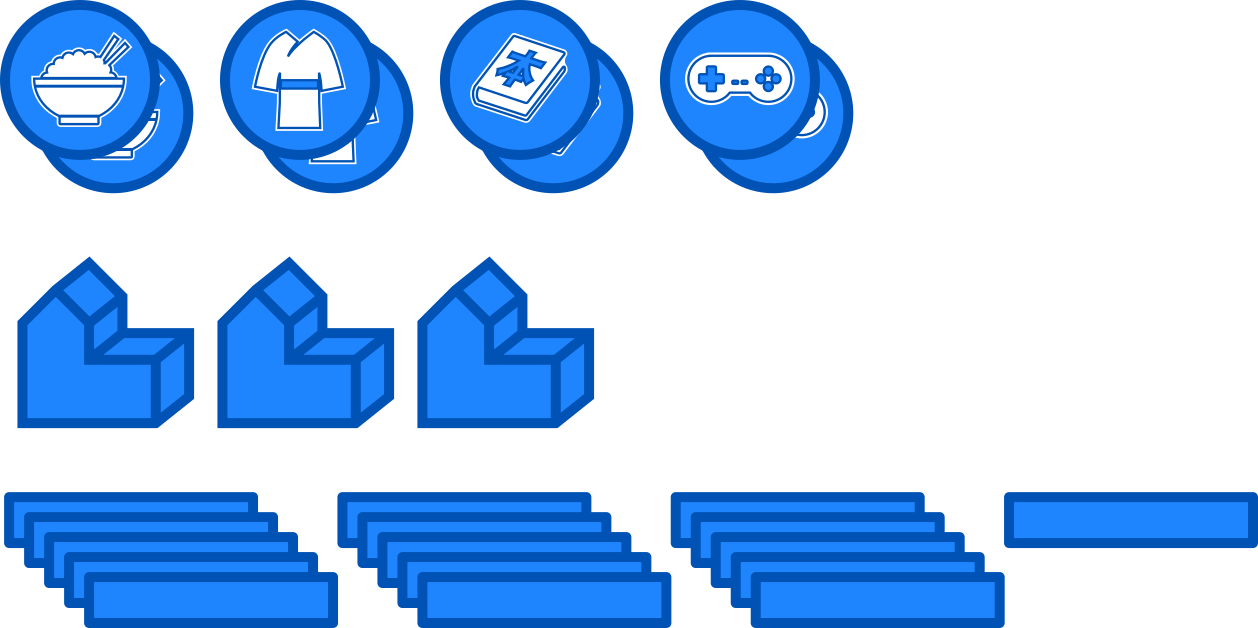
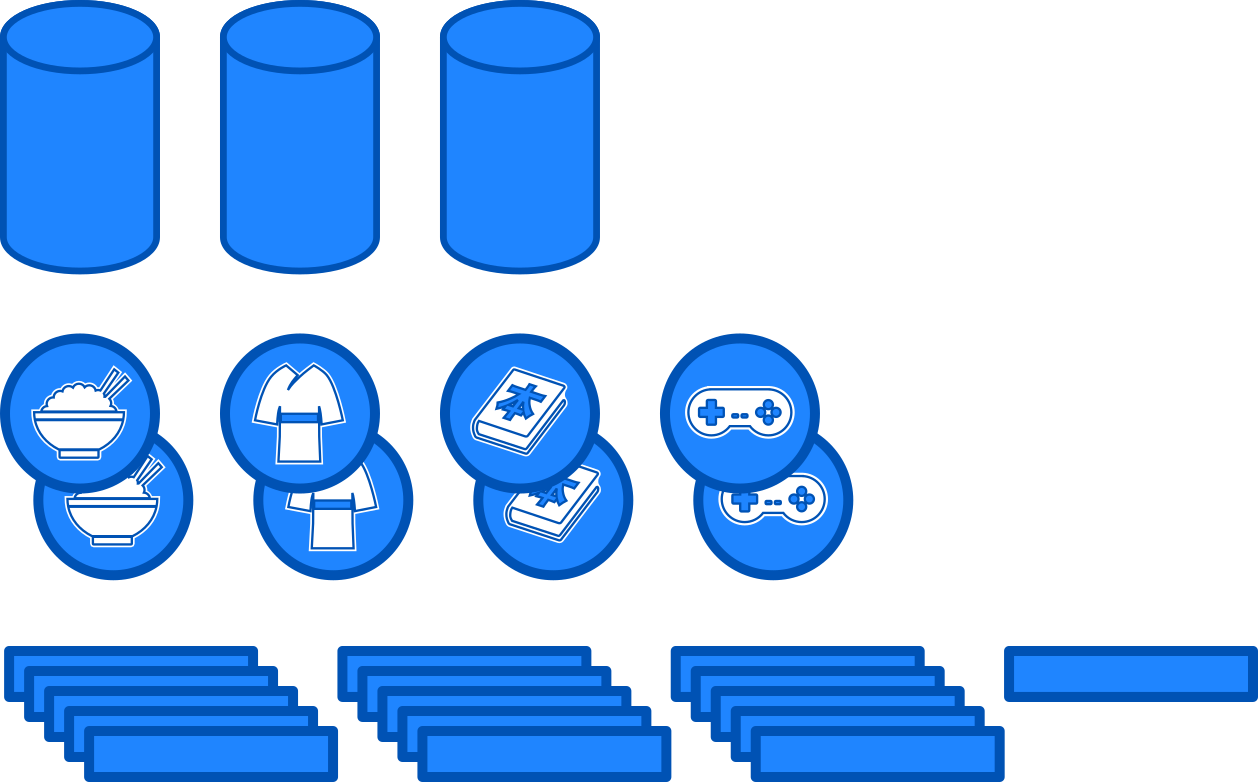
Update readme image to use cylinders for dept stores

diff --git a/README.md b/README.md
@@ -66,7 +66,7 @@ The map is divided into the 23 regions (known as "wards", or "区" (_ku_) in Jap
 
 Each region contains 1 or more train stations and these stations have lines that identify potential connections to other stations.
 
-Some station names are highlighted with a background color which indicates that stores built there can be upgraded to a department store.
+Some station names are highlighted with a background color which indicates that stores built there are allowed to be upgraded to a department store.
 
 ### Cards
 
@@ -78,9 +78,9 @@ There are multiple copies of each card based on the population of that ward. The
 
 ### Player Pieces
 
-Each player has a set of stores, department stores, and track available (the exact number varies based on the number of players).
+Each player has a set of available track, stores, and department stores (the exact number of each component varies based on the number of players).
 
-<img src="components/player.png" height="157px"/>
+<img src="components/player.png" height="190px"/>
 
 There are 4 kinds of stores:
 
@@ -91,7 +91,7 @@ There are 4 kinds of stores:
 | <img src="components/stores-track/generic-book.png" height="40px"/> | sells Books |
 | <img src="components/stores-track/generic-electronics.png" height="40px"/> | sells Electronics |
 
-A department store sells all of these goods.
+A department store (represented by a tall cylinder) sells all of these goods.
 
 ### Customers
 
